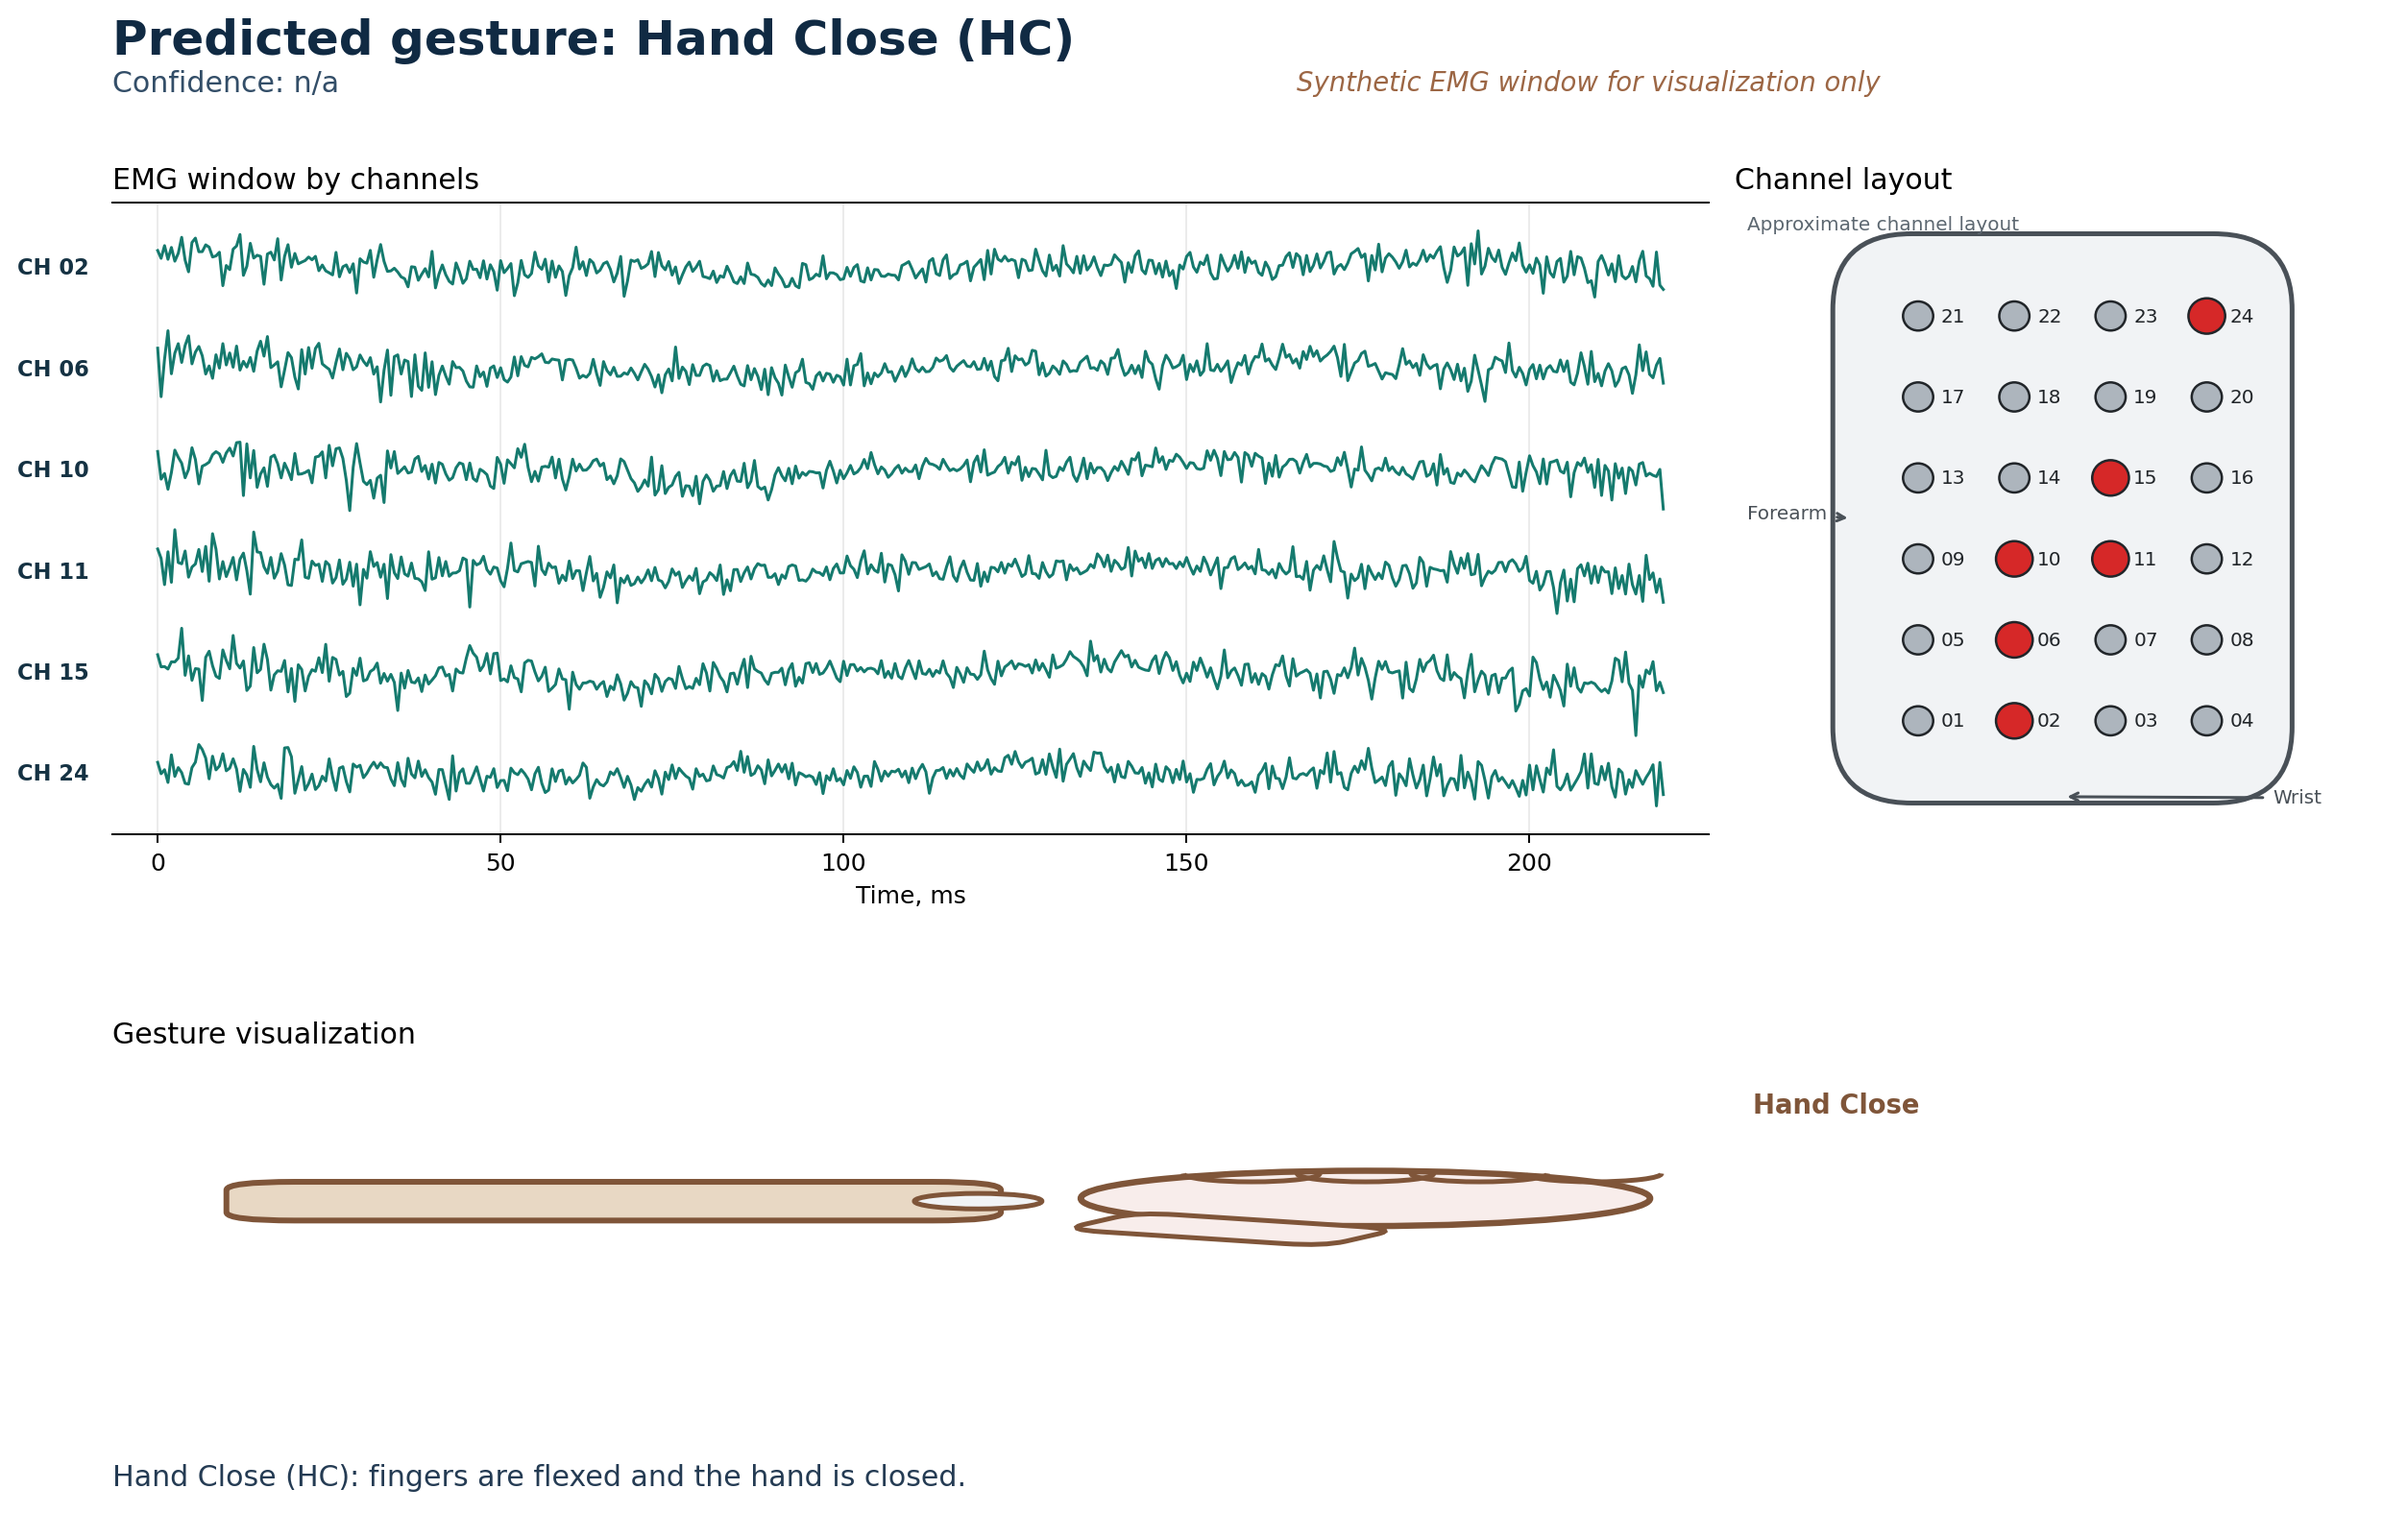
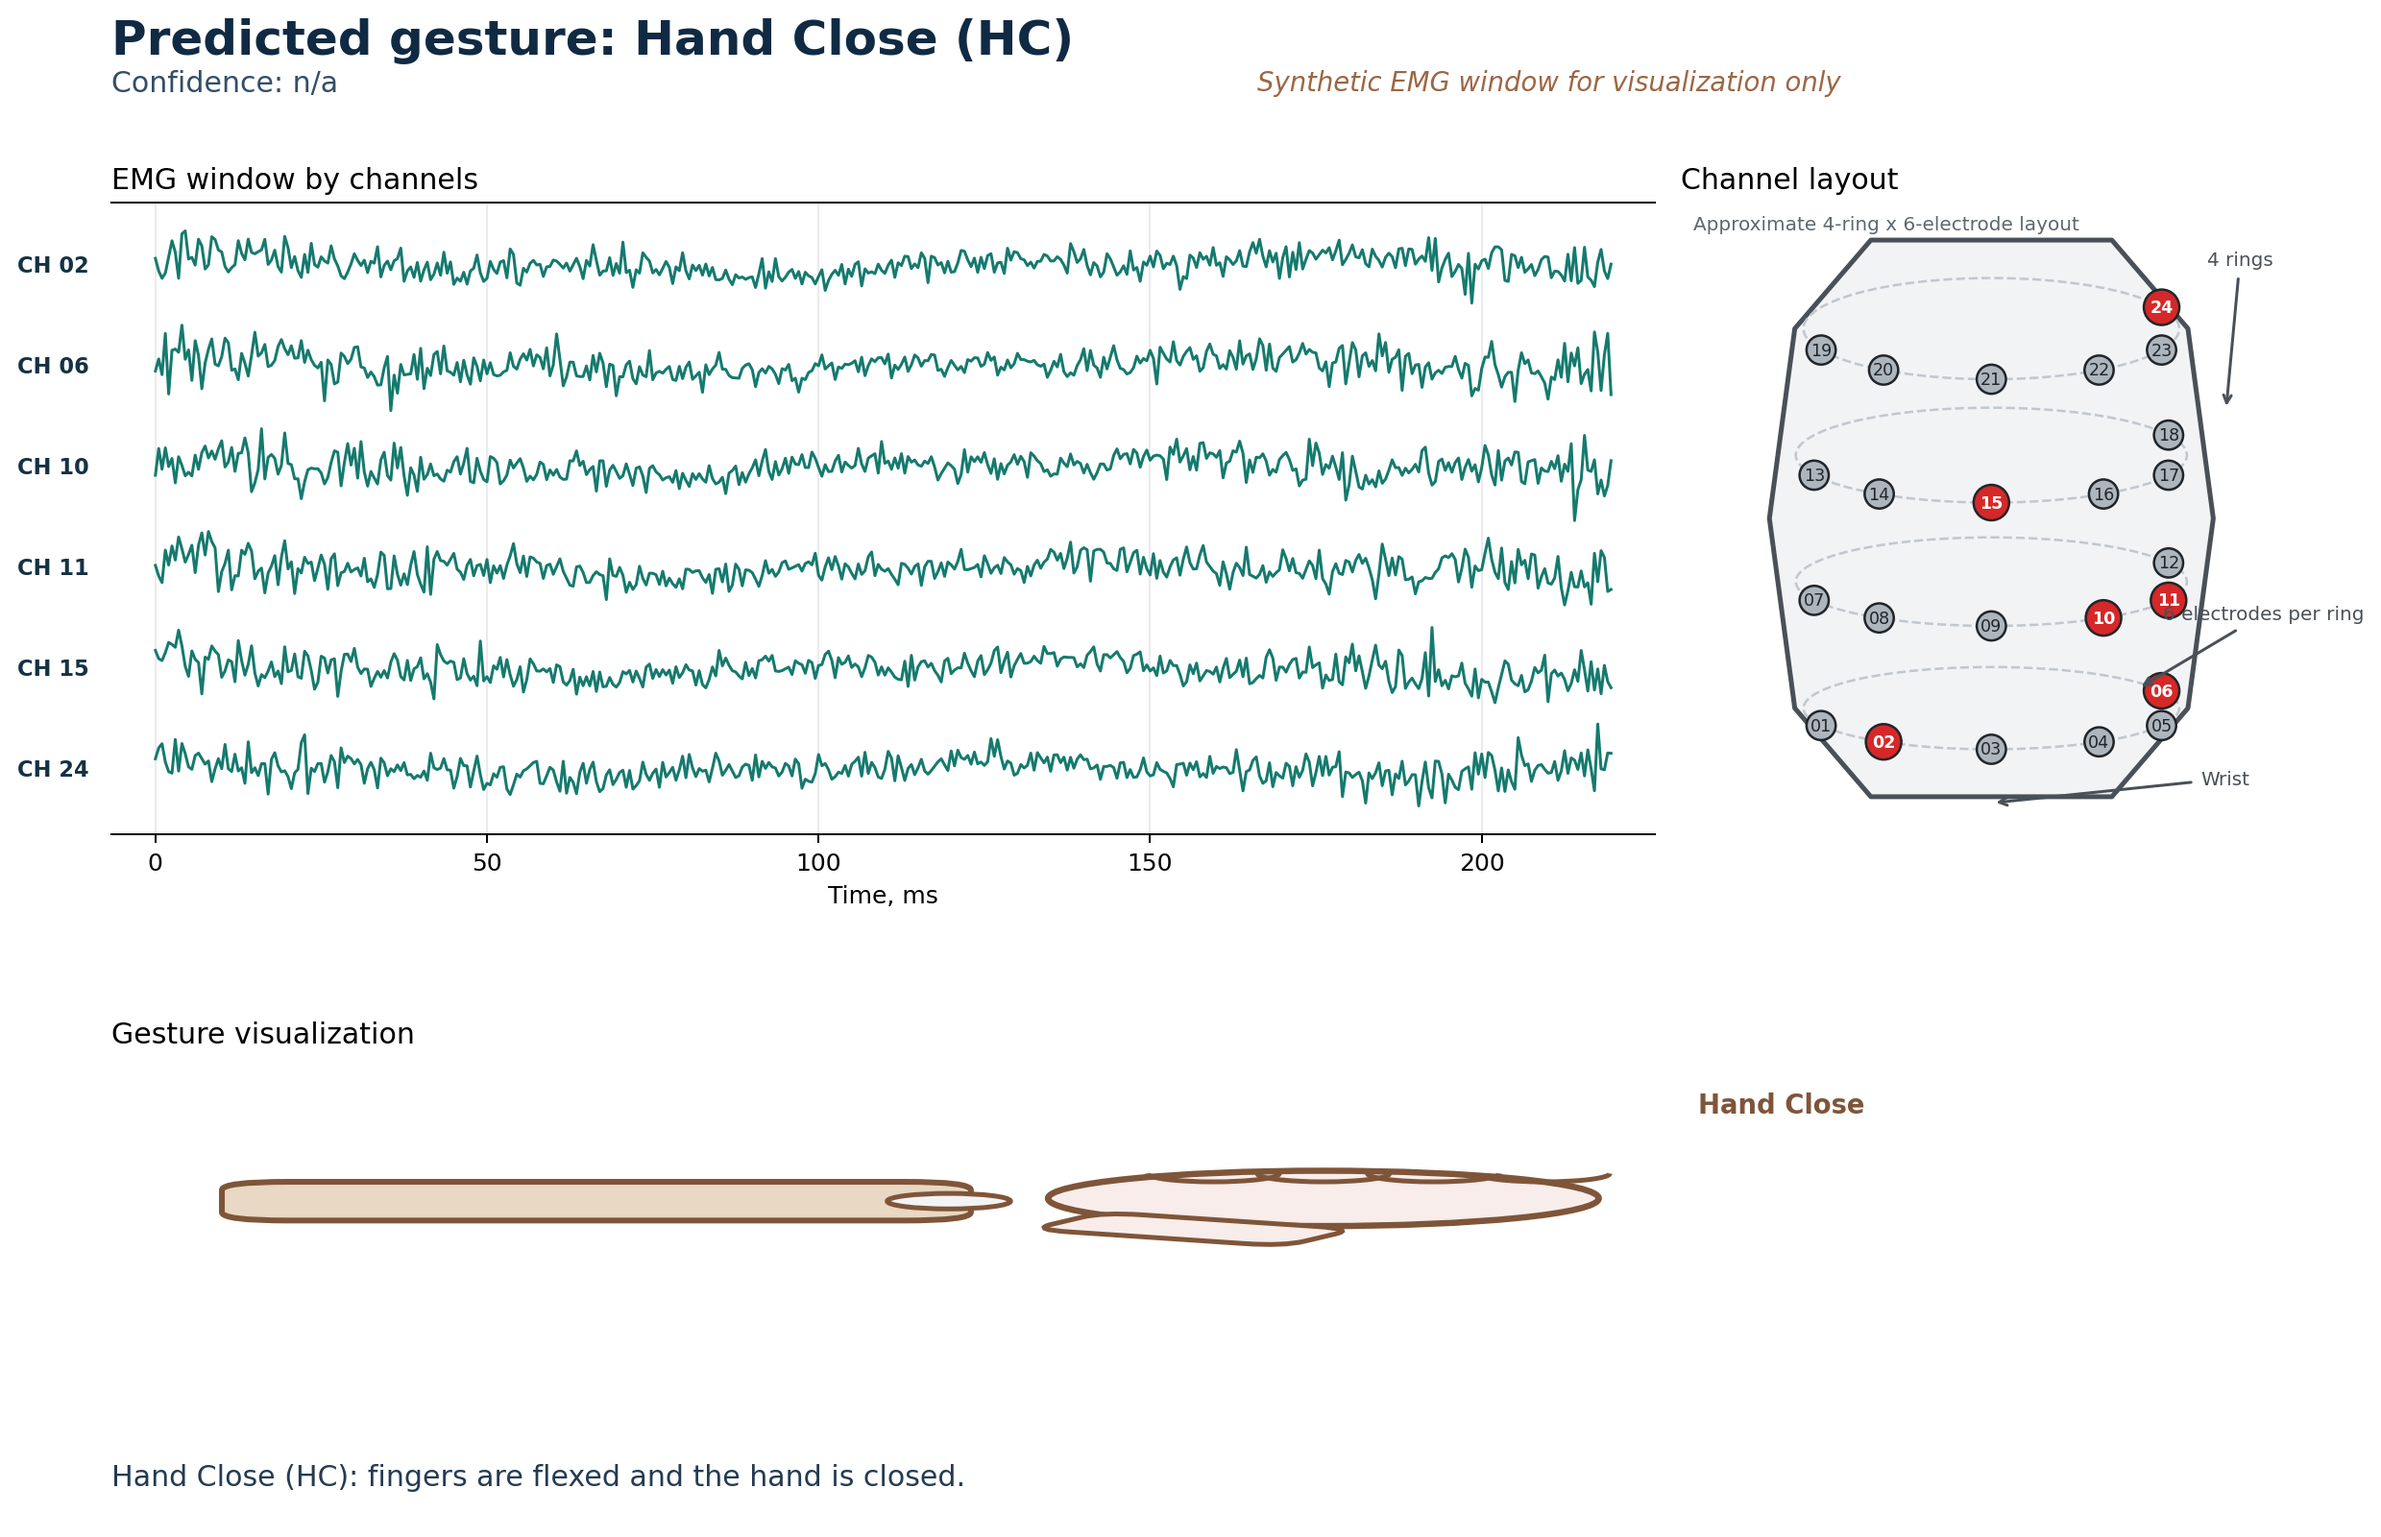
feat: align poc layout with 4-ring channel scheme

diff --git a/src/emg_sampling/visualization/poc_hand.py b/src/emg_sampling/visualization/poc_hand.py
@@ -142,12 +142,12 @@ def plot_channel_layout(
     selected_channels: list[int],
     total_channels: int = 24,
 ) -> None:
-    """Plots schematic channel layout on forearm."""
+    """Plots a schematic 4-ring by 6-electrode forearm layout."""
     ax.set_title("Channel layout", fontsize=12, loc="left")
     ax.text(
         0.02,
         0.98,
-        "Approximate channel layout",
+        "Approximate 4-ring x 6-electrode layout",
         transform=ax.transAxes,
         ha="left",
         va="top",
@@ -155,27 +155,51 @@ def plot_channel_layout(
         color="#5c6770",
     )
 
-    forearm = patches.FancyBboxPatch(
-        (0.18, 0.08),
-        0.64,
-        0.84,
-        boxstyle="round,pad=0.03,rounding_size=0.12",
+    forearm_outline = patches.Polygon(
+        [
+            (0.30, 0.06),
+            (0.68, 0.06),
+            (0.80, 0.20),
+            (0.84, 0.50),
+            (0.80, 0.80),
+            (0.68, 0.94),
+            (0.30, 0.94),
+            (0.18, 0.80),
+            (0.14, 0.50),
+            (0.18, 0.20),
+        ],
+        closed=True,
         linewidth=2.0,
         edgecolor="#495057",
         facecolor="#f1f3f5",
+        joinstyle="round",
     )
-    ax.add_patch(forearm)
+    ax.add_patch(forearm_outline)
 
-    rows, cols = 6, 4
-    xs = np.linspace(0.28, 0.72, cols)
-    ys = np.linspace(0.18, 0.82, rows)
+    ring_ys = np.linspace(0.20, 0.80, 4)
+    ring_angles = np.deg2rad([205, 235, 270, 305, 335, 25])
     positions: dict[int, tuple[float, float]] = {}
     channel_id = 1
-    for y in ys:
-        for x in xs:
+    for ring_idx, y in enumerate(ring_ys):
+        ellipse_width = 0.56 + 0.06 * np.cos((ring_idx - 1.5) / 1.5)
+        ellipse_height = 0.13 + 0.01 * ring_idx
+        ax.add_patch(
+            patches.Ellipse(
+                (0.49, y),
+                width=ellipse_width,
+                height=ellipse_height,
+                linewidth=1.0,
+                linestyle="--",
+                edgecolor="#c0c7cf",
+                facecolor="none",
+            )
+        )
+        for angle in ring_angles:
             if channel_id > total_channels:
                 break
-            positions[channel_id] = (float(x), float(y))
+            x = 0.49 + 0.5 * ellipse_width * np.cos(angle)
+            y_pos = y + 0.5 * ellipse_height * np.sin(angle)
+            positions[channel_id] = (float(x), float(y_pos))
             channel_id += 1
 
     selected_set = set(selected_channels)
@@ -190,27 +214,36 @@ def plot_channel_layout(
         )
         ax.add_patch(circle)
         ax.text(
-            x + 0.035,
+            x,
             y,
             f"{channel_id:02d}",
             va="center",
-            ha="left",
-            fontsize=8,
-            color="#212529",
+            ha="center",
+            fontsize=7,
+            color="white" if selected else "#212529",
+            fontweight="bold" if selected else None,
         )
 
     ax.annotate(
         "Wrist",
-        xy=(0.5, 0.06),
-        xytext=(0.82, 0.05),
+        xy=(0.49, 0.05),
+        xytext=(0.82, 0.08),
         arrowprops={"arrowstyle": "->", "linewidth": 1.2, "color": "#495057"},
         fontsize=8,
         color="#495057",
     )
     ax.annotate(
-        "Forearm",
-        xy=(0.18, 0.5),
-        xytext=(0.02, 0.5),
+        "4 rings",
+        xy=(0.86, 0.67),
+        xytext=(0.83, 0.90),
+        arrowprops={"arrowstyle": "->", "linewidth": 1.2, "color": "#495057"},
+        fontsize=8,
+        color="#495057",
+    )
+    ax.annotate(
+        "6 electrodes per ring",
+        xy=(0.72, 0.23),
+        xytext=(0.76, 0.34),
         arrowprops={"arrowstyle": "->", "linewidth": 1.2, "color": "#495057"},
         fontsize=8,
         color="#495057",
@@ -460,14 +493,18 @@ def _find_dataset_example(
 ) -> dict[str, object]:
     df = load_index(INDEX_4CLASSES_CSV)
     split = make_leakage_safe_split(df, mode=split_mode)
-    selected_channels = _load_selected_channels(channel_sweep_csv, split_mode=split_mode, channels_count=12)
+    selected_channel_indices = _load_selected_channels(
+        channel_sweep_csv,
+        split_mode=split_mode,
+        channels_count=12,
+    )
 
     X_train, y_train, _, _ = build_feature_matrix(
         split.final_train_df,
         win_ms=win_ms,
         hop_fraction=HOP_FRACTION,
         filtered=False,
-        channel_indices=selected_channels,
+        channel_indices=selected_channel_indices,
         feature_set="basic",
     )
     clf = train_lda(X_train, y_train)
@@ -478,7 +515,7 @@ def _find_dataset_example(
         if row["y"] != target_label:
             continue
         signal, fs = read_record(row["record_path"])
-        signal = signal[:, selected_channels]
+        signal = signal[:, selected_channel_indices]
         for window in sliding_windows(signal, fs=fs, win_ms=win_ms, hop_ms=hop_ms):
             features = extract_feature_set(window, feature_set="basic").reshape(1, -1)
             predicted_label = int(clf.predict(features)[0])
@@ -490,7 +527,7 @@ def _find_dataset_example(
             return {
                 "signal": window,
                 "fs": fs,
-                "selected_channels": selected_channels,
+                "selected_channels": [channel_idx + 1 for channel_idx in selected_channel_indices],
                 "predicted_gesture": gesture_code,
                 "confidence": confidence,
                 "synthetic": False,
